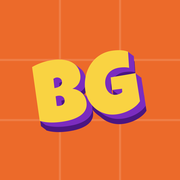
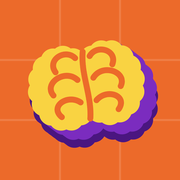
App-Symbol: Comic-Gehirn statt BG

Changed region(s): [[0.1389, 0.2222, 0.8889, 0.8333]]

diff --git a/sw.js b/sw.js
@@ -1,5 +1,5 @@
 // Offline-Unterstützung für Brain Gym. Bei jeder Änderung an der App VERSION erhöhen.
-const VERSION = 'v3';
+const VERSION = 'v4';
 const CACHE = `brain-gym-${VERSION}`;
 const FILES = [
   './',
